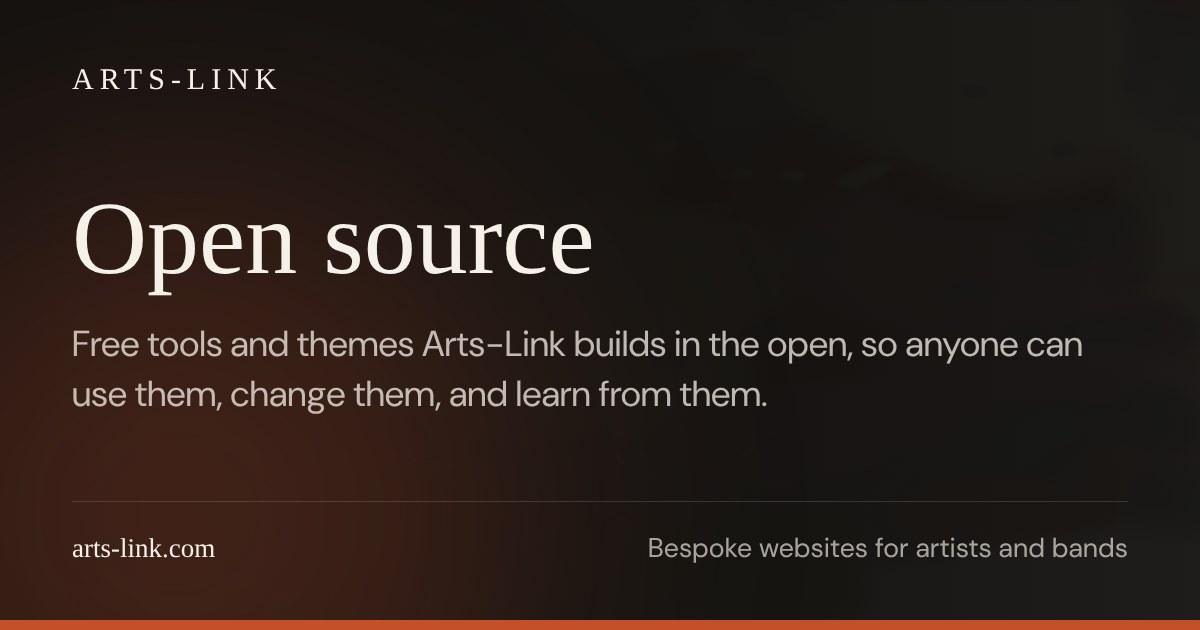
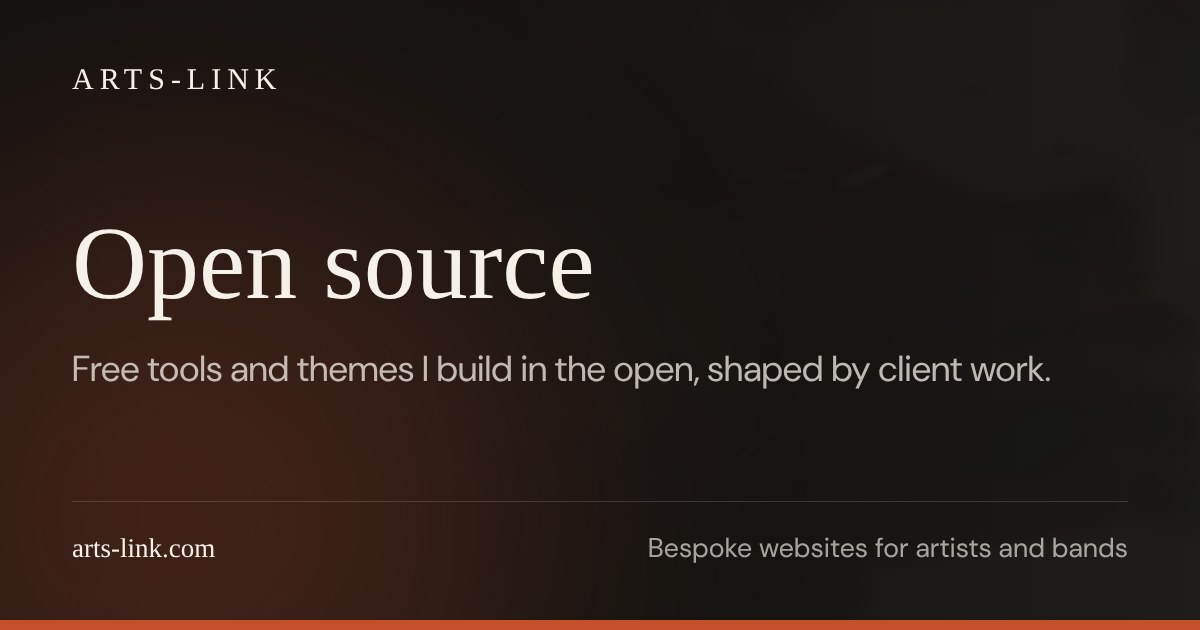
Work filters: real pages and a mobile tab rail, no JS
/work/new-sites/, /work/rescues/ and /work/open-source/ replace the Alpine filter and the mobile select. Every filter link is a plain anchor; the same markup is a scrolling tab rail below md and text links above. A small optional script scrolls the current tab into view. Renames the type pages and their cards, drops the Work Filter event, updates tests and docs.

Claude-Session: https://claude.ai/code/session_01A2ZgeWNbXddwNj2k77Go2p

Changed region(s): [[0.0617, 0.3016, 0.8942, 0.6635]]

diff --git a/tests/smoke.test.js b/tests/smoke.test.js
@@ -21,8 +21,8 @@ const built = fs.existsSync(PUBLIC);
 const INDEXABLE_PAGES = [
   'index.html',
   'work/index.html',
-  'work/new/index.html',
-  'work/rescue/index.html',
+  'work/new-sites/index.html',
+  'work/rescues/index.html',
   'work/open-source/index.html',
   'services/index.html',
   'services/site-rescue/index.html',
@@ -37,7 +37,7 @@ const INDEXABLE_PAGES = [
 ];
 
 // Listing pages under work/: the grid itself and one page per project type.
-const WORK_LISTS = ['work/index.html', 'work/new/index.html', 'work/rescue/index.html', 'work/open-source/index.html'];
+const WORK_LISTS = ['work/index.html', 'work/new-sites/index.html', 'work/rescues/index.html', 'work/open-source/index.html'];
 
 function findHtmlFiles(dir) {
   return fs.readdirSync(dir, { withFileTypes: true }).flatMap((e) =>
@@ -389,41 +389,58 @@ describe.skipIf(!built)('smoke – internal links resolve', () => {
   });
 });
 
-// ─── Work filter ─────────────────────────────────────────────────────────────
+// ─── Work filter pages ───────────────────────────────────────────────────────
 
-describe.skipIf(!built)('smoke – work type filter', () => {
+describe.skipIf(!built)('smoke – work filter pages', () => {
+  const FILTERS = [
+    { page: 'work/index.html', href: '/work/', label: 'All', type: null },
+    { page: 'work/new-sites/index.html', href: '/work/new-sites/', label: 'New sites', type: 'new' },
+    { page: 'work/rescues/index.html', href: '/work/rescues/', label: 'Site rescues', type: 'rescue' },
+    { page: 'work/open-source/index.html', href: '/work/open-source/', label: 'Open source', type: 'open-source' },
+  ];
   const cards = (rel) =>
     [...readPage(rel).window.document.querySelectorAll('article h3')].map((h) => h.textContent.trim());
-  const pill = (rel, label) =>
-    [...readPage(rel).window.document.querySelectorAll('nav[aria-label="Filter work by type"] a')].find((a) =>
-      a.textContent.trim().startsWith(label),
-    );
+  const tabs = (rel) =>
+    [...readPage(rel).window.document.querySelectorAll('nav[aria-label="Filter work"] a')];
 
-  it('each type page lists exactly its own entries', () => {
+  it('each filter page lists exactly its own entries, and together they are all the work', () => {
     const all = cards('work/index.html');
-    const parts = ['new', 'rescue', 'open-source'].map((t) => cards(`work/${t}/index.html`));
+    const parts = FILTERS.slice(1).map((f) => cards(f.page));
     expect(parts.flat().sort()).toEqual([...all].sort());
     expect(parts.every((p) => p.length > 0)).toBe(true);
   });
 
-  it('tab counts match the cards on each type page', () => {
-    const count = (a) => Number(a.textContent.trim().match(/(\d+)$/)[1]);
-    expect(count(pill('work/index.html', 'All'))).toBe(cards('work/index.html').length);
-    expect(count(pill('work/index.html', 'Rescues'))).toBe(cards('work/rescue/index.html').length);
-    expect(count(pill('work/index.html', 'Open source'))).toBe(cards('work/open-source/index.html').length);
-    expect(count(pill('work/index.html', 'New sites'))).toBe(cards('work/new/index.html').length);
+  it.each(FILTERS)('$page: same four plain links, current one marked, counts match the cards', ({ page, href }) => {
+    const links = tabs(page);
+    expect(links.map((a) => a.getAttribute('href'))).toEqual(FILTERS.map((f) => f.href));
+    expect(links.filter((a) => a.getAttribute('aria-current') === 'page').map((a) => a.getAttribute('href'))).toEqual([href]);
+    FILTERS.forEach((f, i) => {
+      expect(Number(links[i].querySelector('span').textContent)).toBe(cards(f.page).length);
+    });
   });
 
-  it('offers the same choices in the small-screen select', () => {
-    const opts = (rel) =>
-      [...readPage(rel).window.document.querySelectorAll('#work-type option')].map((o) => o.value);
-    expect(opts('work/index.html')).toEqual(['', 'new', 'rescue', 'open-source']);
-    const sel = readPage('work/rescue/index.html').window.document.querySelector('#work-type option[selected]');
-    expect(sel?.value).toBe('rescue');
+  it('has no filter switch left: no select, no Alpine state, no data-filter', () => {
+    const { document } = readPage('work/index.html').window;
+    expect(document.querySelector('select')).toBeNull();
+    expect(document.querySelector('.work-filter').closest('[x-data]')).toBeNull();
+    expect(document.querySelector('.work-filter').parentElement.querySelector('[x-show], [\\@click]')).toBeNull();
+    expect(document.querySelector('[data-filter]')).toBeNull();
   });
 
-  it('marks the current type tab on its own page', () => {
-    expect(pill('work/rescue/index.html', 'Rescues').getAttribute('aria-current')).toBe('page');
-    expect(pill('work/rescue/index.html', 'All').getAttribute('aria-current')).toBeNull();
+  it.each(FILTERS.slice(1))('$page has its own title, description and canonical', ({ page, label, href }) => {
+    const { document } = readPage(page).window;
+    expect(document.querySelector('h1').textContent.trim()).toBe(label);
+    expect(document.title).toContain(label);
+    expect(document.querySelector('link[rel="canonical"]').getAttribute('href')).toMatch(new RegExp(`${href}$`));
+    expect(document.querySelector('header p.text-cream\\/55')?.textContent.trim()).toBe(metaDescription(page));
+  });
+
+  it('filter pages are never listed as projects (home, llms.txt)', () => {
+    const home = readPage('index.html').window.document.body.innerHTML;
+    const llms = fs.readFileSync(path.join(PUBLIC, 'llms.txt'), 'utf8');
+    for (const slug of ['new-sites', 'rescues', 'open-source']) {
+      expect(home).not.toContain(`/work/${slug}/`);
+      expect(llms).not.toContain(`/work/${slug}/`);
+    }
   });
 });

diff --git a/layouts/work/list.html b/layouts/work/list.html
@@ -1,53 +1,54 @@
 {{/*
-  Serves /work/ and the per-type pages (/work/rescue/, /work/open-source/,
-  /work/new/). A type page is a child section whose front matter sets `filter`.
+  Serves /work/ and its three filter pages (/work/new-sites/, /work/rescues/,
+  /work/open-source/). The filter pages are branch bundles with no children, so
+  they fall back to this template; their `_index.md` sets `filter` (a
+  `site_type`) and `eyebrow`. Every filter link is a plain <a href>.
 
-  On /work/ the pills are also an Alpine filter: clicking one hides the other
-  cards without a reload and records the choice as ?type=… so the view can be
-  shared. The per-type pages are the same list rendered statically, for
-  crawlers, link previews and visitors without JS.
+  Cards come from the section's regular pages, so the filter pages themselves
+  are never listed as projects.
 */}}
 {{ define "main" }}
 
-  {{- $filter := .Params.filter | default "" -}}
-  {{- $isRoot := eq $filter "" -}}
-  {{- $entries := (site.GetPage "/work").RegularPages -}}
-  {{- if eq $filter "new" -}}
-    {{- $entries = where $entries "Params.site_type" "not in" (slice "rescue" "open-source") -}}
-  {{- else if $filter -}}
-    {{- $entries = where $entries "Params.site_type" "eq" $filter -}}
-  {{- end -}}
-  {{- $entries = $entries.ByParam "weight" -}}
+  {{- $all := where site.RegularPages "Section" "work" -}}
+  {{- $projects := $all -}}
+  {{- with .Params.filter }}{{ $projects = where $all "Params.site_type" . }}{{ end -}}
+  {{- $here := .RelPermalink -}}
+  {{- $filters := slice
+        (dict "label" "All"         "href" "/work/"             "n" (len $all))
+        (dict "label" "New sites"   "href" "/work/new-sites/"   "n" (len (where $all "Params.site_type" "new")))
+        (dict "label" "Site rescues" "href" "/work/rescues/"    "n" (len (where $all "Params.site_type" "rescue")))
+        (dict "label" "Open source" "href" "/work/open-source/" "n" (len (where $all "Params.site_type" "open-source"))) -}}
 
-  <div class="max-w-6xl mx-auto px-6 pt-16 pb-32"
-    {{ if $isRoot }}x-data="{
-      type: '',
-      init() {
-        const t = new URLSearchParams(location.search).get('type') || '';
-        if (['new', 'rescue', 'open-source'].includes(t)) this.type = t;
-      },
-      pick(t) {
-        this.type = t;
-        history.replaceState(null, '', t ? '?type=' + t : location.pathname);
-      },
-      shows(t) { return this.type === '' || this.type === t; }
-    }"{{ end }}>
+  <div class="max-w-6xl mx-auto px-6 pt-16 pb-32">
 
-    <header class="mb-12">
-      <p class="text-ember text-xs tracking-[0.3em] uppercase mb-4">Portfolio</p>
-      <h1 class="font-display text-5xl md:text-7xl text-cream font-light">{{ if $isRoot }}Work{{ else }}{{ .Title }}{{ end }}</h1>
-      {{ with and (not $isRoot) .Params.description }}<p class="text-cream/60 text-lg mt-6 max-w-2xl">{{ . }}</p>{{ end }}
+    <header>
+      <p class="text-ember text-xs tracking-[0.3em] uppercase mb-4">{{ .Params.eyebrow | default "Portfolio" }}</p>
+      <h1 class="font-display text-5xl md:text-7xl text-cream font-light">{{ .Title }}</h1>
+      {{ with .Description }}<p class="text-cream/55 text-base md:text-lg leading-relaxed max-w-xl mt-6">{{ . }}</p>{{ end }}
     </header>
 
-    {{ partial "modules/work-filter.html" (dict "active" $filter "alpine" $isRoot) }}
+    <!-- Filter. One markup for every width: a scrolling tab rail below md
+         (full-bleed, so the next tab peeks off the edge), plain text links from
+         md up. -->
+    <nav aria-label="Filter work"
+         class="work-filter relative flex gap-7 mt-8 mb-10 -mx-6 px-6 overflow-x-auto snap-x scroll-pl-6 border-b border-cream/10 [scrollbar-width:none] [&::-webkit-scrollbar]:hidden
+                md:mx-0 md:px-0 md:flex-wrap md:gap-x-8 md:overflow-visible md:border-b-0">
+      {{ range $filters }}
+      <a href="{{ .href }}"{{ if eq $here .href }} aria-current="page"{{ end }}
+         class="group snap-start shrink-0 whitespace-nowrap inline-flex items-center gap-2 h-11 md:h-auto md:pb-2 text-[13px] uppercase tracking-[0.1em] text-cream/55 hover:text-cream
+                transition-colors duration-200 ease-[cubic-bezier(0.16,1,0.3,1)]
+                aria-[current=page]:text-cream aria-[current=page]:shadow-[inset_0_-2px_0_rgb(var(--color-ember))]
+                focus-visible:outline focus-visible:outline-1 focus-visible:outline-offset-2 focus-visible:outline-ember">
+        {{ .label }}
+        <span class="text-cream/25 group-aria-[current=page]:text-cream/35">{{ .n }}</span>
+      </a>
+      {{ end }}
+    </nav>
 
-    {{ if $entries }}
+    {{ if $projects }}
     <div class="grid grid-cols-1 md:grid-cols-2 gap-8">
-      {{ range $entries }}
-        {{- $t := .Params.site_type | default "new" -}}
-        <div {{ if $isRoot }}x-show="shows('{{ $t }}')"{{ end }}>
-          {{ partial "modules/project-card.html" (dict "page" . "sizes" "(max-width: 767px) calc(100vw - 3rem), (max-width: 1151px) calc(50vw - 2.5rem), 536px") }}
-        </div>
+      {{ range $projects.ByParam "weight" }}
+        {{ partial "modules/project-card.html" (dict "page" . "sizes" "(max-width: 767px) calc(100vw - 3rem), (max-width: 1151px) calc(50vw - 2.5rem), 536px") }}
       {{ end }}
     </div>
     {{ else }}
@@ -57,5 +58,15 @@
   </div>
 
   {{ partial "modules/cta-block.html" . }}
+
+  {{/* Progressive enhancement: on a narrow screen, bring the current tab into
+       view. Plain scrollLeft, because scrollIntoView can scroll the page too. */}}
+  <script>
+    (function () {
+      var nav = document.querySelector('.work-filter');
+      var cur = nav && nav.querySelector('[aria-current="page"]');
+      if (nav && cur) nav.scrollLeft = cur.offsetLeft - 24;
+    })();
+  </script>
 
 {{ end }}

diff --git a/docs/content-model.md b/docs/content-model.md
@@ -47,12 +47,18 @@ Open-source projects (Ryder, Screenshot-a-Day) use `site_type = "open-source"`. 
 
 ### Filtering by type
 
-`/work/` shows text tabs (All, New sites, Rescues, Open source) with counts on md+, and a select on small screens, built from each entry's `site_type`. There are two layers:
+`/work/` and three filter pages share one template, `layouts/work/list.html`:
 
-- **Static pages.** `content/work/{new,rescue,open-source}/_index.md` are child sections whose front matter sets `filter`. `layouts/work/list.html` renders the same grid for them, limited to that type, so `/work/rescue/` etc. work without JS, are indexable, and get their own description and social card. An entry with no `site_type` counts as `new`.
-- **Instant filter.** On `/work/` an Alpine scope hides the other cards without a reload and records the choice as `?type=rescue`. Loading that URL restores the filter.
+| URL | Shows | `site_type` |
+|---|---|---|
+| `/work/` | All work | (none) |
+| `/work/new-sites/` | New sites | `new` |
+| `/work/rescues/` | Site rescues | `rescue` |
+| `/work/open-source/` | Open source | `open-source` |
 
-Adding a fourth `site_type` means a new `_index.md`, a new entry in `layouts/partials/modules/work-filter.html`, the allow-list in `layouts/work/list.html`, and a card (`npm run build && npm run og`). The list templates use `.RegularPages` so these child sections never show up as projects.
+The filter pages are branch bundles with no children: `content/work/{new-sites,rescues,open-source}/_index.md`, each setting `filter` (the `site_type` to show) and `eyebrow`. Projects stay in `content/work/<slug>/`. Each filter page has its own title, description, canonical and social card, and every filter link is a plain `<a href>` — there is no filter JavaScript. The nav shows computed counts and marks the current page with `aria-current="page"`. The same markup is a scrolling tab rail below `md` and plain text links from `md` up; a three-line script scrolls the current tab into view on narrow screens and is optional.
+
+The templates that list projects use `where site.RegularPages "Section" "work"`, so these child sections are never listed as projects. Adding a fourth `site_type` means a new `_index.md`, a new entry in the `$filters` array in `layouts/work/list.html`, and a card (`npm run build && npm run og`).
 
 ### Adding a work entry
 

diff --git a/docs/analytics.md b/docs/analytics.md
@@ -49,7 +49,6 @@ These are the events fired by the `data-track-*` attribute system. They appear i
 | `CTA Click` | `layouts/partials/modules/cta-block.html` | `{location: "cta-block"}` |
 | `CTA Click` | `layouts/partials/footer.html` | `{location: "footer"}` |
 | `Blog Callout Click` | `layouts/partials/modules/latest-post.html` (title, description and "Read" links) | `{location: "home"}` |
-| `Work Filter` | `layouts/partials/modules/work-filter.html` (the type tabs on /work/ and the per-type pages; the small-screen select is not tracked) | `{type: "all" \| "new" \| "rescue" \| "open-source"}` |
 | `Service Detail Click` | `layouts/partials/modules/service-block.html` ("How a rescue works →", on Home and Services) | `{service: "site-rescue"}` |
 | `Contact Form Submit` | `layouts/partials/modules/contact-form.html` | _(none)_ |
 | `Archive Worksheet Submit` | `layouts/archive-worksheet/list.html` | _(none)_ |

diff --git a/content/services/site-rescue/index.md b/content/services/site-rescue/index.md
@@ -108,4 +108,4 @@ If the work was ever online, chances are parts of it can be recovered. I won't k
 
 Site rescues start from $1,000. The price depends on how many pages and images there are, and how much digging it takes to get them back. I'll give you a number once I've seen what you have, and before any work begins.
 
-[See the sites I've rescued →](/work/rescue/)
+[See the sites I've rescued →](/work/rescues/)

diff --git a/content/work/open-source/_index.md b/content/work/open-source/_index.md
@@ -1,5 +1,6 @@
 +++
 title = "Open source"
-description = "Free tools and themes Arts-Link builds in the open, so anyone can use them, change them, and learn from them."
+description = "Free tools and themes I build in the open, shaped by client work."
 filter = "open-source"
+eyebrow = "Work"
 +++

diff --git a/content/work/rescues/_index.md b/content/work/rescues/_index.md
@@ -1,0 +1,6 @@
++++
+title = "Site rescues"
+description = "Sites moved off dying hosts and expensive platforms — everything they had, faster, and finally theirs."
+filter = "rescue"
+eyebrow = "Work"
++++

diff --git a/content/work/new-sites/_index.md b/content/work/new-sites/_index.md
@@ -1,0 +1,6 @@
++++
+title = "New sites"
+description = "Portfolios built from scratch for painters, photographers, bands, and family archives."
+filter = "new"
+eyebrow = "Work"
++++
